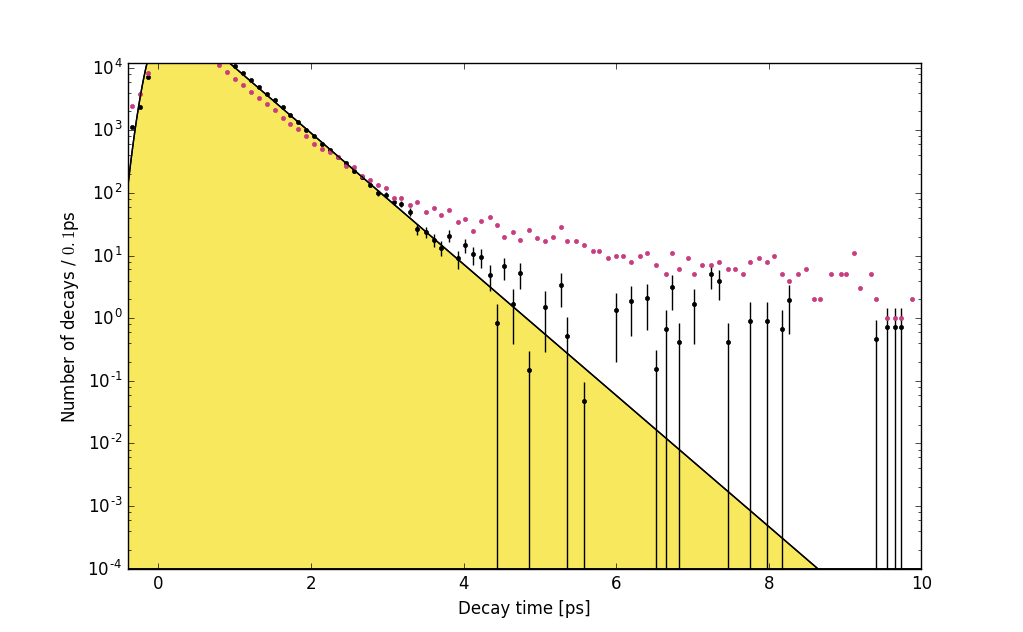
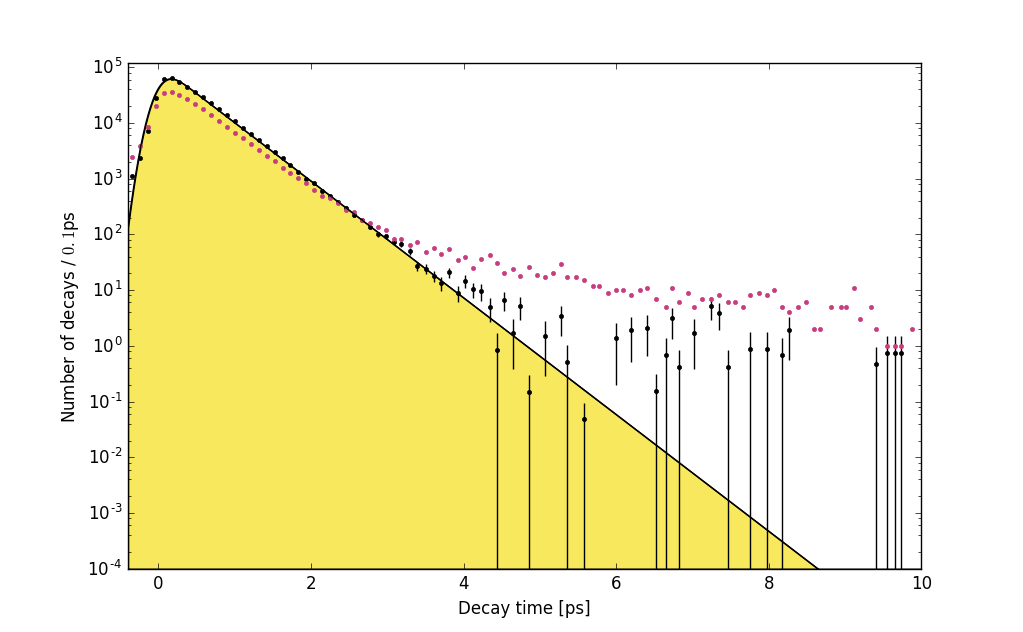
all graphs

diff --git a/Code/Lifetime.py b/Code/Lifetime.py
@@ -383,7 +383,7 @@ def calculateLifetime(data, bg, deltamass_po, dm_binwidth, deltamass_peak_width)
 	ax.fill_between(time_cont, 1e-4, convoluted_exponential(time_cont, max(hist)*.7, tau_elimination, pdf_gaussian_width), facecolor='#F8E85E')
 	pl.xlabel(r'Decay time [ps]')
 	pl.ylabel(r'Number of decays / $' + str(bin_width) + '$ps')
-	ax.set_ylim(1e-4, 1.25e5 if is_latex else 1.2e4)
+	ax.set_ylim(1e-4, 1.25e5 if is_latex else 1.2e5)
 	ax.set_xlim(time_range)
 	savefig('decay-fitted')
 	pl.close()
@@ -395,7 +395,7 @@ def calculateLifetime(data, bg, deltamass_po, dm_binwidth, deltamass_peak_width)
 	pl.plot(time_cont, convoluted_exponential(time_cont, max(hist)*.73, tau_elimination, pdf_gaussian_width), '-k')
 	ax.fill_between(time_cont, 1e-4, convoluted_exponential(time_cont, max(hist)*.73, tau_elimination, pdf_gaussian_width), facecolor='#F8E85E')
 	ax.set_xlim(time_range[0], 4)
-	ax.set_ylim(1e-4, 1.25e5 if is_latex else 1.2e4)
+	ax.set_ylim(1e-4, 1.25e5 if is_latex else 1.2e5)
 	pl.xlabel(r'Decay time [ps]')
 	pl.ylabel(r'Number of decays / $' + str(bin_width) + '/,$ps')
 	savefig('decay')

diff --git a/Code/Fitting.py b/Code/Fitting.py
@@ -62,7 +62,7 @@ def maximum_likelyhood_exp_fit(full_set, after_po, deltamass_peak_width, dm_unce
 	tau_f = Newton_Raphson_tau(0.4)
 	print('tau', tau_f, np.mean(times))
 
-	newfig(0.65)
+	newfig(0.65 if is_latex else 2)
 	x = np.linspace(.25, .65, 100)
 	A = normalisation_const(convoluted_exponential, fit_range, (1, tau_f, pdf_gaussian_width))
 	pl.plot(x, [negative_log_likelihood(x, times, mass_diffs) for x in x])
